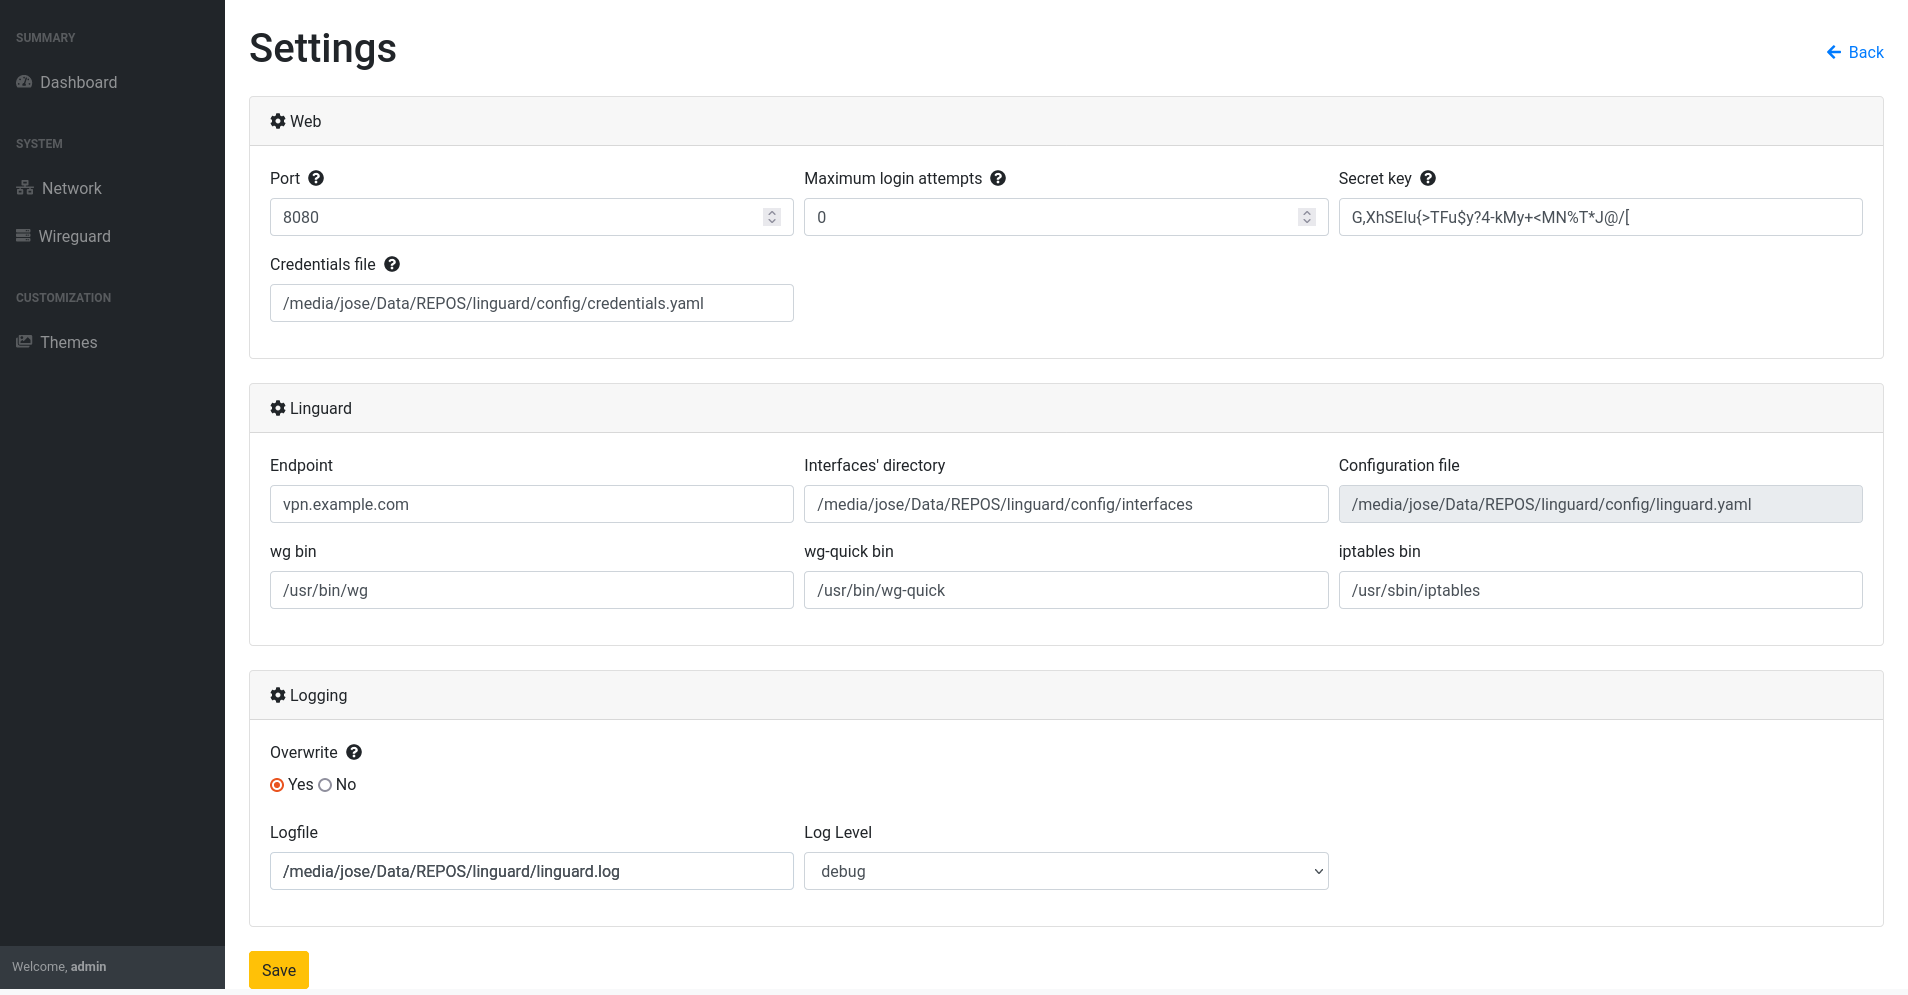
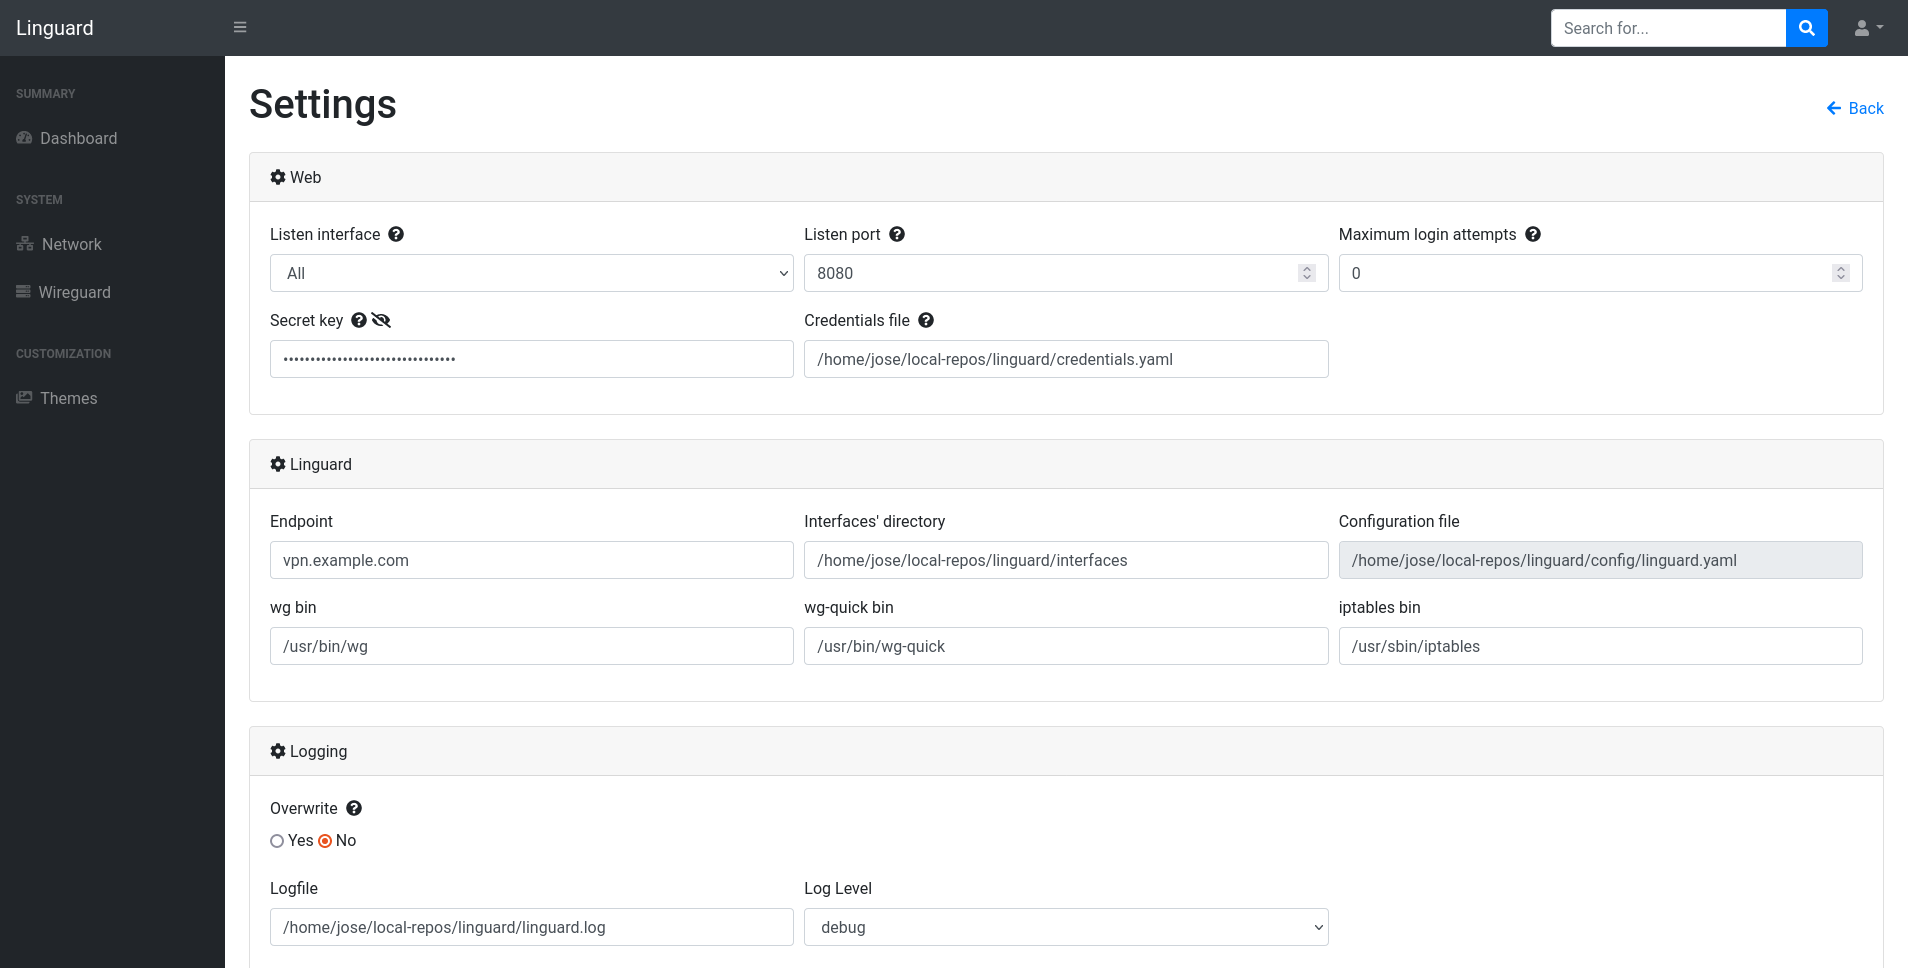
#22 Added toggle eye button to show/hide the secret key
+ Added new settings screenshot

diff --git a/web/templates/web/settings.html b/web/templates/web/settings.html
@@ -99,6 +99,9 @@
                                             data-content="Used for authentication and encryption purposes.">
                                             <i class="fas fa-question-circle"></i>
                                 </span>
+                                <span type="button" id="toggleSecretKey">
+                                    <i class="fas fa-eye-slash" id="toggleSecretKeyIcon"></i>
+                                </span>
                                 {{ form.web_secret_key(class="form-control") }}
                             </div>
                             <div class="form-group col-md-4">
@@ -106,7 +109,7 @@
                             <span type="button" class="ml-1" data-toggle="popover"
                                         data-placement="top"
                                         data-content="Storages the credentials of {{ app_name }}'s users.
-                                        A restart is required to apply this settings.">
+                                        A restart is required to apply this setting.">
                                         <i class="fas fa-question-circle"></i>
                             </span>
                             {{ form.web_credentials_file(class="form-control") }}
@@ -273,4 +276,8 @@
             </form>
         </div>
     </main>
+{% endblock %}
+
+{% block additional_scripts %}
+    <script type="module" src="../../static/js/modules/settings.mjs"></script>
 {% endblock %}
